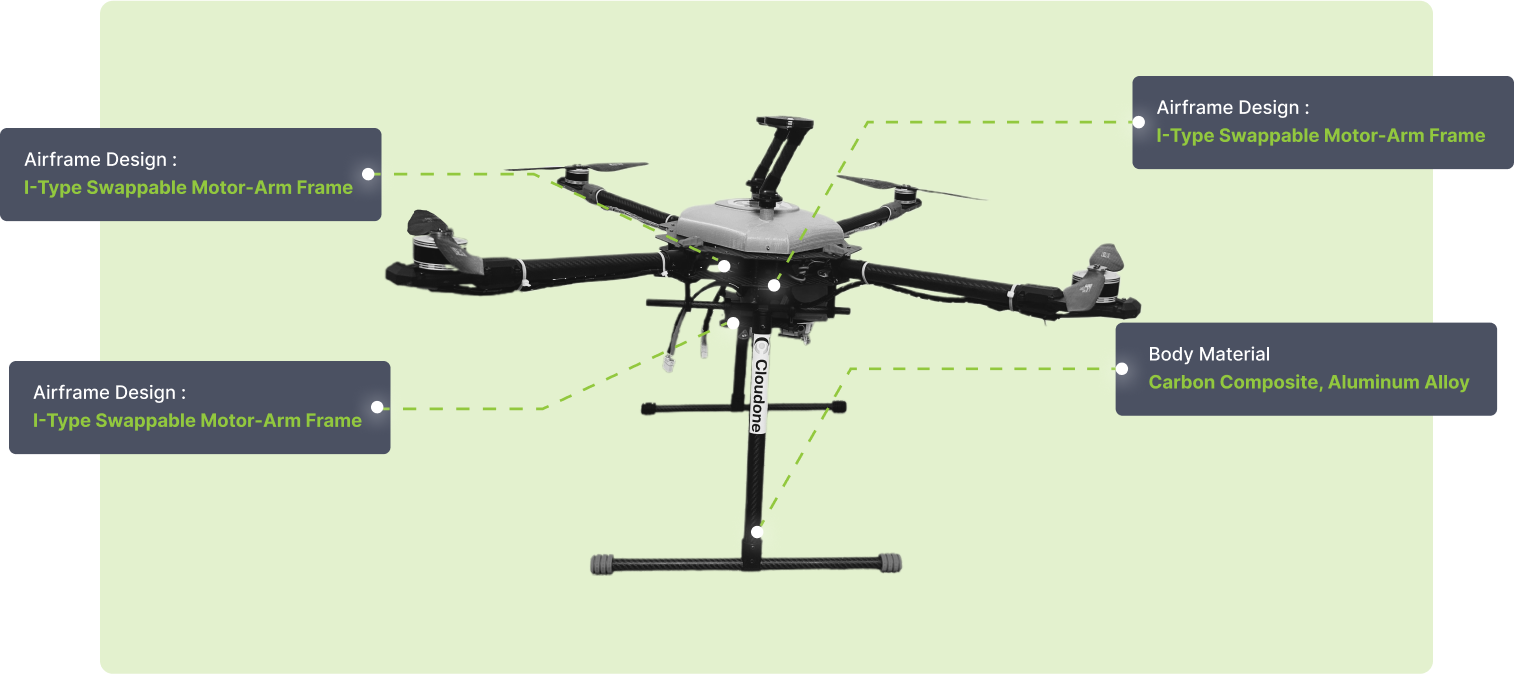
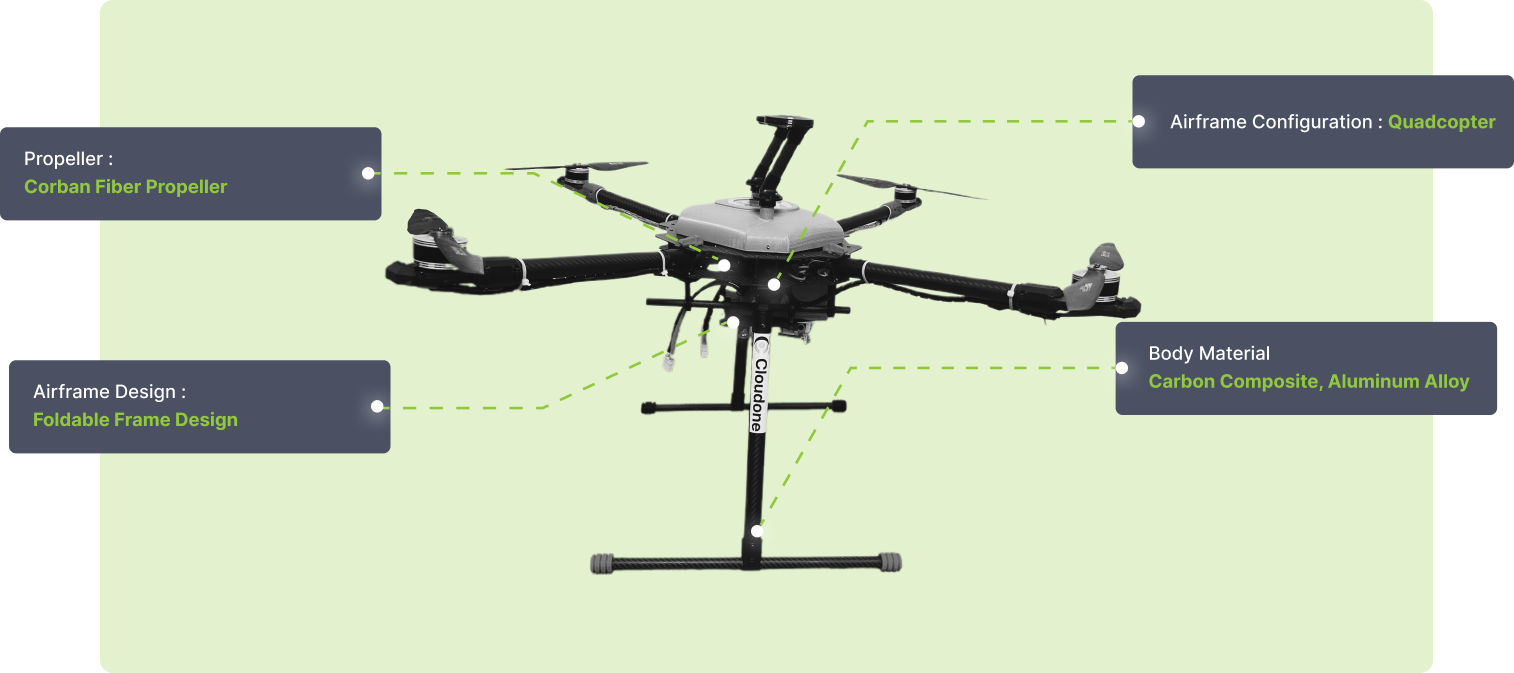
form-update

diff --git a/src/components/About.js b/src/components/About.js
@@ -8,7 +8,7 @@ import Container from "./Container";
 
 import { ACCORDIAN_ITEMS } from "./constants";
 import Testinonials from "./Testinonials";
-
+import { useForm, ValidationError } from '@formspree/react';
 import AllMembersArrowImg from "../assets/all_members_button.png";
 
 // import TeamMember2Img from "../assets/team_member2.png";
@@ -28,7 +28,15 @@ import Linkedin from "../assets/Linkedin.png";
 // import Nayzak_Patterns from "../assets/nayzak_patterns.png";
 // import Crave_Chips from "../assets/crave_chips.png";
 
+
 function About() {
+  const scrollToFooter = () => {
+    const footer = document.getElementById('footer');
+    if (footer) {
+        footer.scrollIntoView({ behavior: 'smooth' });
+    }
+};
+
   return (
     <>
       <div className="h-fit bg-gradient-to-b from-cloudone-gradient-four/55 to-cloudone-gradient-four/0">
@@ -57,7 +65,7 @@ function About() {
               and a vision for the future, we are redefining the possibilities
               of what drones can accomplish in today’s rapidly evolving world.
             </p>
-            <button className="shadow-2xl my-8 py-4 px-8 bg-[#20343c] font-bold rounded-lg text-gray-100 block mx-auto ">
+            <button onClick={scrollToFooter} className="shadow-2xl my-8 py-4 px-8 bg-[#20343c] font-bold rounded-lg text-gray-100 block mx-auto ">
               Get A Quote
             </button>
           </div>
@@ -86,7 +94,7 @@ function About() {
               <h1 className="text-4xl font-bold text-center text-white md:text-5xl md:text-left">
                 AI software for drone that handles all your needs.
               </h1>
-              <button className="flex items-center px-8 py-4 mx-auto mt-4 uppercase rounded-full w-fit md:mx-0 bg-cloudone-gradient-four text-nowrap">
+              <button  onClick={scrollToFooter} className="flex items-center px-8 py-4 mx-auto mt-4 uppercase rounded-full w-fit md:mx-0 bg-cloudone-gradient-four text-nowrap">
                 Get call from us{" "}
                 <BiRightArrowAlt className="ml-2 rotate-[-45deg] text-2xl" />
               </button>
@@ -466,10 +474,19 @@ const Accordian = ({ question, answer }) => (
   </details>
 );
 const ContactForm = ({ className }) => {
-  const submitForm = (e) => {
-    e.preventDefault();
-    console.log("yo");
-  };
+//   const submitForm = (e) => {
+//     e.preventDefault();
+//     console.log("yo");
+//   };
+
+const [state, handleSubmit] = useForm("mwpkrqqq");
+if (state.succeeded) {
+  return (
+      <div className="p-4 mb-4 text-sm text-green-800 rounded-lg bg-green-100 border border-green-300" role="alert">
+          <strong>Success!</strong> We will get in touch with you shortly!
+      </div>
+  );
+}
 
   return (
     <div
@@ -479,10 +496,11 @@ const ContactForm = ({ className }) => {
     >
       <p className="uppercase">Ask your question</p>
       <div className="pt-4 border-t-[1px] mt-4 border-black/20">
-        <form id="contact">
+        <form onSubmit={handleSubmit} id="contact">
           <fieldset className="mt-4">
             <label className="block mb-2 uppercase">Name</label>
             <input
+              id="name"
               className="w-full p-4 rounded-lg text-cloudone-blue"
               placeholder="Enter your name"
               type="text"
@@ -490,16 +508,27 @@ const ContactForm = ({ className }) => {
               required
               autofocus
             />
+               <ValidationError 
+            prefix="Name" 
+            field="name"
+            errors={state.errors}
+        />
           </fieldset>
           <fieldset className="mt-4">
             <label className="block mb-2 uppercase ">Email</label>
             <input
+              id="email"
               className="w-full p-4 rounded-lg text-cloudone-blue"
               placeholder="Enter your email"
               type="email"
               tabindex="2"
               required
             />
+             <ValidationError 
+        prefix="Email" 
+        field="email"
+        errors={state.errors}
+      />
           </fieldset>
           <fieldset className="mt-4">
             <label className="block mb-2 uppercase">Your question</label>
@@ -510,12 +539,17 @@ const ContactForm = ({ className }) => {
               tabindex="5"
               required
             ></textarea>
+            <ValidationError 
+        prefix="Message" 
+        field="message"
+        errors={state.errors}
+      />
           </fieldset>
           <fieldset className="mt-4">
             <button
               className="w-full p-4 mt-2 text-lg font-bold text-[#20343c] bg-yellow-500  rounded-xl"
               type="submit"
-              onClick={submitForm}
+              disabled={state.submitting}
             >
               Send
             </button>

diff --git a/src/components/Footer.js b/src/components/Footer.js
@@ -2,11 +2,13 @@ import logo from '../assets/logo.svg'
 import { FaSquareFacebook, FaSquareInstagram, FaSquareXTwitter } from 'react-icons/fa6'
 import { SOCIAL_LINKS } from './constants'
 import { Link } from 'react-router-dom'
+import { useForm, ValidationError } from '@formspree/react';
+
 
 function Footer() {
 
     return (
-        <footer className='w-full '>
+        <footer id ='footer' className='w-full '>
             <div className='container'><h1 className='text-center md:text-left md:w-2/3 text-4xl md:text-6xl text-[#20343c] font-extrabold uppercase leading-none'>At Cloudone AI Robotics Lab</h1></div>
             <div className='bg-[#20343c]'>
                 <section className='container md:flex md:justify-between md:gap-3 text-center md:text-left'>
@@ -52,20 +54,43 @@ function Footer() {
 }
 
 const SayHelloForm = () => {
-    const submitForm = (e) => {
-        e.preventDefault();
-        console.log("yo");
-    };
+    // const submitForm = (e) => {
+    //     e.preventDefault();
+    //     console.log("yo");
+    // };
+    const [state, handleSubmit] = useForm("mwpkrqqq");
+    if (state.succeeded) {
+        return (
+            <div className="p-4 mb-4 text-sm text-green-800 rounded-lg bg-green-100 border border-green-300" role="alert">
+                <strong>Success!</strong> We will get in touch with you shortly!
+            </div>
+        );
+    }
     return (
         <div className='bg-white py-4 px-6 rounded-[18px] border-8 border-[#20343c]'>
-            <form onSubmit={submitForm}>
+            <form onSubmit={handleSubmit}>
                 <label className="inline-block py-[10px] font-roboto font-medium text-[16px] text-[#1D313C]">NAME</label>
                 <input id="name" type='text' placeholder='Enter your name' className='w-full  rounded-xl p-6 text-gray-800 bg-stone-200 placeholder:text-[#1D313C40]'/>
-                <label className="inline-block py-[10px] font-roboto font-medium text-[16px] text-[#1D313C]">EMAIL</label>
-                <input id="email" type="email" placeholder='Enter your email' className='w-full  rounded-xl p-6 text-gray-800 bg-stone-200 placeholder:text-[#1D313C40]'/>
+                <ValidationError 
+            prefix="Name" 
+            field="name"
+            errors={state.errors}
+        />
+                <label  htmlFor="email" className="inline-block py-[10px] font-roboto font-medium text-[16px] text-[#1D313C]">EMAIL</label>
+                <input name="email" id="email" type="email" placeholder='Enter your email' className='w-full  rounded-xl p-6 text-gray-800 bg-stone-200 placeholder:text-[#1D313C40]'/>
+                <ValidationError 
+        prefix="Email" 
+        field="email"
+        errors={state.errors}
+      />
                 <label className="inline-block py-[10px] font-roboto font-medium text-[16px] text-[#1D313C]">YOUR QUESTION</label>
+               <ValidationError 
+        prefix="Message" 
+        field="message"
+        errors={state.errors}
+      />
                 <textarea id="contact" placeholder='Enter Your Question Here ....' name="contact" rows="4" cols="50" className='w-full  rounded-xl p-6 text-gray-800 bg-stone-200 placeholder:text-[#1D313C40]' />
-                <button className='w-full p-4 mt-2 text-lg font-bold text-[#20343c] bg-[#92C83E] rounded-xl' type="submit">Send email</button>
+                <button disabled={state.submitting} className='w-full p-4 mt-2 text-lg font-bold text-[#20343c] bg-[#92C83E] rounded-xl' type="submit">Send email</button>
             </form>
         </div>
     )

diff --git a/src/components/Details.js b/src/components/Details.js
@@ -8,21 +8,27 @@ import DGIDrone from "../assets/Drone pngs/Drone4.png";
 const overviewCardsData = [
   {
     img: ProductIcon,
-    title: "Title goes here",
+    title: "Autonomous Operations",
     desc: "Autonomous mission planning and payload delivery capability allowing for quick operational and logistics support",
   },
   {
     img: ProductIcon,
-    title: "Title goes here",
-    desc: "Swappable motor-arms with single and coaxial motor fittings allowing larger flight, range and payload envelope",
+    title: "Enhanced Flight Efficiency",
+    desc: "Foldable motor-arms with single and coaxial motor fittings allowing larger flight, range and payload envelope",
   },
   {
     img: ProductIcon,
-    title: "Title goes here",
-    desc: "Polycarbonate and aluminum material for lighter and compact quadcopter footprint",
+    title: "Lightweight Durability",
+    desc: "CarbonFibre and aluminum material for lighter and compact quadcopter footprint",
   },
 ];
 
+const scrollToFooter = () => {
+  const footer = document.getElementById("footer");
+  if (footer) {
+    footer.scrollIntoView({ behavior: "smooth" });
+  }
+};
 const specification = [
   {
     title: "Powertrain",
@@ -30,7 +36,7 @@ const specification = [
   },
   {
     title: "Drive Motor",
-    spec: "Curved Magnet BLDC Motor",
+    spec: "T-Motor ",
   },
   {
     title: "Maximum Altitude",
@@ -47,10 +53,10 @@ const specification = [
 ];
 
 const features = [
-  { design: "Airframe Design :", detail: "I-Type Swappable Motor-Arm Frame" },
-  { design: "Airframe Design :", detail: "I-Type Swappable Motor-Arm Frame" },
-  { design: "Airframe Design :", detail: "I-Type Swappable Motor-Arm Frame" },
-  { design: "Body Material :", detail: "Carbon Composite, Aluminum Alloy" },
+  { design: "Propeller", detail: "Carbon fiber propellors" },
+  { design: "Airframe Configuration", detail: "Quadcopter" },
+  { design: "Airframe Design :", detail: "Foldable Frame design" },
+  { design: "Body Material :", detail: "Carbon Composite" },
 ];
 
 const Details = () => {
@@ -102,7 +108,7 @@ const Details = () => {
             payload carrying and delivery mission culpability.Prima facie
             features of the drone are:
           </p>
-          <button className="px-6 py-3 bg-[#92C83E] font-medium  text-white rounded-2xl ">
+          <button onClick={scrollToFooter} className="px-6 py-3 bg-[#92C83E] font-medium  text-white rounded-2xl ">
             Get a demo
           </button>
         </div>

diff --git a/src/components/Home.js b/src/components/Home.js
@@ -11,6 +11,20 @@ import { FaPlay, FaPause } from "react-icons/fa";
 import { CARASOUL, FEATURES } from "./constants";
 import ProductsCarasoul from "./ProductsCarasoul";
 
+const scrollToCarousel = () => {
+  const carousel = document.getElementById("products-carousel");
+  if (carousel) {
+    carousel.scrollIntoView({ behavior: "smooth" });
+  }
+};
+
+const scrollToFooter = () => {
+  const footer = document.getElementById('footer');
+  if (footer) {
+      footer.scrollIntoView({ behavior: 'smooth' });
+  }
+};
+
 function Home() {
   return (
     <>
@@ -26,7 +40,7 @@ function Home() {
               and a vision for the future, we are redefining the possibilities
               of what drones can accomplish in today's rapidly evolving world.
             </p>
-            <button className=" shadow-2xl py-4 px-8 bg-[#20343c] font-bold rounded-lg text-gray-100 block mx-auto md:mx-0">
+            <button onClick={scrollToFooter} className=" shadow-2xl py-4 px-8 bg-[#20343c] font-bold rounded-lg text-gray-100 block mx-auto md:mx-0">
               Get A Quote
             </button>
           </div>
@@ -122,14 +136,14 @@ function Home() {
                 grade tech infused Drones
               </p>
             </div>
-            <button className="px-8 py-4 mx-auto border-4 rounded-lg sm:block md:absolute md:top-0 md:right-0 md:my-16 border-cloudone-gradient-four">
+            <button onClick={scrollToCarousel} className="px-8 py-4 mx-auto border-4 rounded-lg sm:block md:absolute md:top-0 md:right-0 md:my-16 border-cloudone-gradient-four">
               Learn More
             </button>
           </div>
           <VideoPlayer />
         </Container>
       </div>
-      <div>
+      <div id="products-carousel">
         <ProductsCarasoul />
       </div>
       <div className="bg-center bg-cover bg-drone-mountain ">
@@ -145,7 +159,7 @@ function Home() {
               medical evacuations and supply delivery. Our dedication to
               sustainability drives our innovation and development.
             </p>
-            <button className="px-8 py-4 text-gray-100 rounded-full bg-cloudone-gradient-four">
+            <button onClick={scrollToFooter} className="px-8 py-4 text-gray-100 rounded-full bg-cloudone-gradient-four">
               Contact Us
             </button>
           </Container>

diff --git a/src/components/Header.js b/src/components/Header.js
@@ -8,6 +8,13 @@ function Header() {
     const toggleMenu = () => {
         return setOpen(!isOpen)
     }
+
+    const scrollToFooter = () => {
+        const footer = document.getElementById('footer');
+        if (footer) {
+            footer.scrollIntoView({ behavior: 'smooth' });
+        }
+    };
     return (
         <header className='py-2 w-full flex justify-between bg-white drop-shadow-md sticky top-0 z-10'>
             <div className='container flex justify-between'>
@@ -22,7 +29,7 @@ function Header() {
                         ROUTES.map((route) => (<ListItem key={route.NAME} text={route.NAME} to={route.TO} />))
                     }
                 </nav>
-                <button className='hidden lg:block px-8 py-1 my-2 rounded-full font-semibold bg-[#1d313c] text-white'>Schedule a demo</button>
+                <button onClick={scrollToFooter} className='hidden lg:block px-8 py-1 my-2 rounded-full font-semibold bg-[#1d313c] text-white'>Schedule a demo</button>
                 <button onClick={toggleMenu} className='block lg:hidden px-8 py-1 my-2 rounded-full font-semibold bg-[#1d313c] text-white'><MdMenu /></button>
             </div>
             <div style={{ left: `${isOpen ? '0%' : '100%'}`, display:`${isOpen ? 'block' : 'none'}`  }} className='w-full h-screen absolute z-20 top-0 left-[100%] bg-white hidden'>

diff --git a/src/components/constants.js b/src/components/constants.js
@@ -22,10 +22,10 @@ export const ROUTES = [
         NAME:"About Us",
         TO:"/about"
     },
-    // {
-    //     NAME:"Products",
-    //     TO:"/products"
-    // },
+    {
+        NAME:"Products",
+        TO:"/details"
+    },
     // {
     //     NAME:"Pricing",
     //     TO:"/Pricing"
